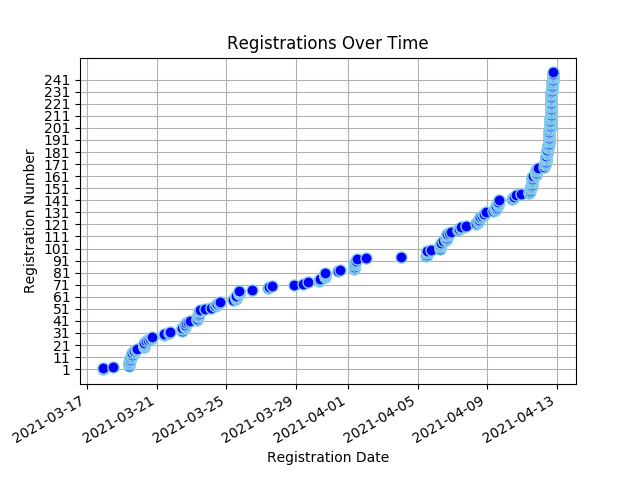
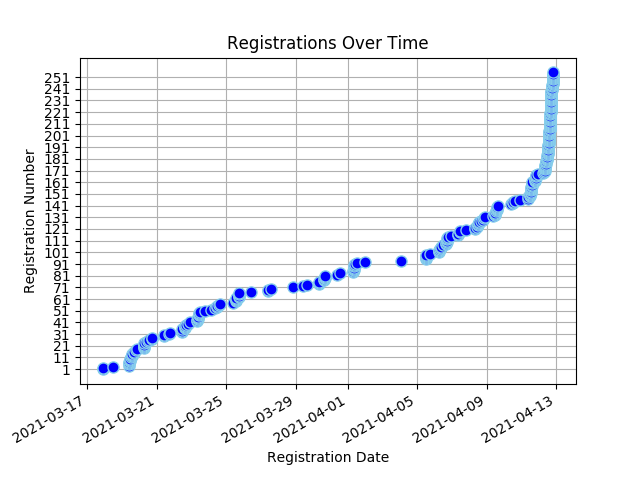
Registree stats backup on Mon 12 Apr 2021 20:35:16 SAST

diff --git a/content/registrees/_index.md b/content/registrees/_index.md
@@ -3,9 +3,9 @@ title: Registration Stats
 draft: false
 ---
 
-<ul><li><strong>Number of Registrees</strong>: 247</li>
+<ul><li><strong>Number of Registrees</strong>: 255</li>
 
-<li><strong>Number of Clubs</strong>: 65</li>
+<li><strong>Number of Clubs</strong>: 66</li>
 
 <li><strong>Club With Most Attendees</strong>: Windhoek (15 registrees)</li>
 </ul><h2>Registrees</h2>
@@ -33,6 +33,6 @@ draft: false
         </tr>
     </thead>
     <tbody>
-<tr><td>Natalie Abrahams</td><td>Cape Town</td><td>410W</td></tr><tr><td>Alan Abramsohn</td><td>Milnerton</td><td>410W</td></tr><tr><td>Janine Abramsohn</td><td>Sea Point</td><td>410W</td></tr><tr><td>Rashid Adams</td><td>Athlone</td><td>410W</td></tr><tr><td>Linda Anderson</td><td>George</td><td>410W</td></tr><tr><td>Neale Stewart ANDREWS</td><td>Cowies Hill</td><td>410E</td></tr><tr><td>Linda Baumgarten</td><td>Sea Point</td><td>410W</td></tr><tr><td>Ulrike Behrens</td><td>Windhoek</td><td>410W</td></tr><tr><td>Valencia Beukes-Williams</td><td>Kuilsriver</td><td>410W</td></tr><tr><td>Belinda Blakeman</td><td>North Durban</td><td>410E</td></tr><tr><td>Lyn(ette) Botha</td><td>Cowies Hill</td><td>410E</td></tr><tr><td>JOSE BRAGA BORGES</td><td>Malmesbury</td><td>410W</td></tr><tr><td>Paul Brauteseth</td><td>Port Shepstone</td><td>410E</td></tr><tr><td>Byron Brooker</td><td>Pretoria South</td><td>410E</td></tr><tr><td>Nelle Buhrmann</td><td>Sea Point</td><td>410W</td></tr><tr><td>Christopher Bull</td><td>The Wilds</td><td>410E</td></tr><tr><td>Herman Cadman</td><td>Stellenbosch</td><td>410W</td></tr><tr><td>Artemis Calomiris</td><td>Helderberg</td><td>410W</td></tr><tr><td>Linda Ann Cannone</td><td>Fish Hoek</td><td>410W</td></tr><tr><td>Petrus Carstens</td><td>Worcester</td><td>410W</td></tr><tr><td>Lizelle Castle</td><td>Athlone</td><td>410W</td></tr><tr><td>Sue Charles</td><td>Tokai</td><td>410W</td></tr><tr><td>Lionel Chazen</td><td>Edenvale</td><td>410E</td></tr><tr><td>Perry Chetty</td><td>East Coast</td><td>410E</td></tr><tr><td>Delaney Yeltsin Cloete</td><td>Eden</td><td>410W</td></tr><tr><td>Kate Coppen</td><td>Letaba Tzaneen</td><td>410E</td></tr><tr><td>Esme Cornelius</td><td>Kuilsriver</td><td>410W</td></tr><tr><td>Sharon Cottle</td><td>Groote Schuur</td><td>410W</td></tr><tr><td>Joel d'Offay</td><td>Milnerton</td><td>410W</td></tr><tr><td>Peter Daniel</td><td>Gordons Bay</td><td>410W</td></tr><tr><td>Norma Daniel</td><td>Gordons Bay</td><td>410W</td></tr><tr><td>Engela de Kock</td><td>Swellendam</td><td>410W</td></tr><tr><td>Francois de Kock</td><td>Swellendam</td><td>410W</td></tr><tr><td>Charlotte de Silva</td><td>Edenvale</td><td>410E</td></tr><tr><td>ANDRE DE VILLIERS</td><td>Malgas</td><td>410W</td></tr><tr><td>Lara De Wet</td><td>Edenvale</td><td>410E</td></tr><tr><td>Benita Diener</td><td>Mitchells Plain</td><td>410W</td></tr><tr><td>Peggy Du Plooy</td><td>Krugersdorp</td><td>410E</td></tr><tr><td>Ivan Du Plooy</td><td>Krugersdorp</td><td>410E</td></tr><tr><td>Tammy du Plooy</td><td>Alberton</td><td>410E</td></tr><tr><td>Marc du Plooy</td><td>Alberton</td><td>410E</td></tr><tr><td>Desiree du Toit</td><td>Ramsgate</td><td>410E</td></tr><tr><td>Glynn Easton</td><td>Helderkruin</td><td>410E</td></tr><tr><td>Denise Easton</td><td>Helderkruin</td><td>410E</td></tr><tr><td>Fadia Ely</td><td>Athlone</td><td>410W</td></tr><tr><td>Freddie Erasmus</td><td>Uitenhage</td><td>410E</td></tr><tr><td>Natalie Etridge</td><td>Sedgefield</td><td>410W</td></tr><tr><td>AIDAN Ewers</td><td>Newlands</td><td>410W</td></tr><tr><td>Roger Fahrbach</td><td>Windhoek</td><td>410W</td></tr><tr><td>Beate Fahrbach</td><td>Windhoek</td><td>410W</td></tr><tr><td>Beate Fahrbach</td><td>Windhoek</td><td>410W</td></tr><tr><td>Jules Flanagan</td><td>Tokai</td><td>410W</td></tr><tr><td>Charles Flanagan</td><td>Tokai</td><td>410W</td></tr><tr><td>Jéan Fouché</td><td>Worcester</td><td>410W</td></tr><tr><td>Clive Fox</td><td>Merriman</td><td>410W</td></tr><tr><td>Pat Fox</td><td>Merriman</td><td>410W</td></tr><tr><td>Kelvin Foxcroft</td><td>Helderkruin</td><td>410E</td></tr><tr><td>Jenny Foxcroft</td><td>Helderkruin</td><td>410E</td></tr><tr><td>Katherine Foxcroft</td><td>Helderkruin</td><td>410E</td></tr><tr><td>Martin Froise</td><td>Letaba Tzaneen</td><td>410E</td></tr><tr><td>Allison Georges</td><td>Cape Of Good Hope</td><td>410W</td></tr><tr><td>Bernd Gerhard</td><td>Wilro Park</td><td>410E</td></tr><tr><td>Shirley Gerhard</td><td>Wilro Park</td><td>410E</td></tr><tr><td>Valerie Graham</td><td>Nelspruit</td><td>410E</td></tr><tr><td>Mike Graham</td><td>Nelspruit</td><td>410E</td></tr><tr><td>Viv Grater</td><td>Sedgefield</td><td>410W</td></tr><tr><td>Brian Gray</td><td>Durbanville</td><td>410W</td></tr><tr><td>Matty Grobler</td><td>Henties Bay</td><td>410W</td></tr><tr><td>Christiana Groenewoud</td><td>Milnerton</td><td>410W</td></tr><tr><td>Mattheus Groves</td><td>Sedgefield</td><td>410W</td></tr><tr><td>Glyn Gunter</td><td>Malmesbury</td><td>410W</td></tr><tr><td>Barbara Haywood</td><td>Eden</td><td>410W</td></tr><tr><td>Mike Heathcote</td><td>Port Shepstone</td><td>410E</td></tr><tr><td>Zarina Hendricks</td><td>Athlone</td><td>410W</td></tr><tr><td>ELIZABETH Hendriks</td><td>Table View</td><td>410W</td></tr><tr><td>MBULELO HERMANUS</td><td>Alberton</td><td>410E</td></tr><tr><td>Evelyn Herzfeld</td><td>Edenvale</td><td>410E</td></tr><tr><td>Dorothy Hess</td><td>Kuilsriver</td><td>410W</td></tr><tr><td>Wendy Higgins</td><td>Wilro Park</td><td>410E</td></tr><tr><td>Jacqui Hocking</td><td>Midrand</td><td>410E</td></tr><tr><td>Cliff Hocking</td><td>Midrand</td><td>410E</td></tr><tr><td>Ellen G W Hoffmann</td><td>Windhoek</td><td>410W</td></tr><tr><td>KEITH ALEXANDER HOLLIMAN</td><td>Alberton</td><td>410E</td></tr><tr><td>Liz Houston</td><td>Table View</td><td>410W</td></tr><tr><td>John Houston</td><td>Table View</td><td>410W</td></tr><tr><td>Johan Huysamen</td><td>Malmesbury</td><td>410W</td></tr><tr><td>Alna Jackson</td><td>Pretoria Jakaranda</td><td>410E</td></tr><tr><td>Dawid Jacobs</td><td>Durbanville</td><td>410W</td></tr><tr><td>Jean Jacobs</td><td>Mitchells Plain</td><td>410W</td></tr><tr><td>WOLSLEY Jacobson</td><td>Cape Town</td><td>410W</td></tr><tr><td>MALCOLM JOHNSTON</td><td>Standerton</td><td>410E</td></tr><tr><td>Grant Jonathan</td><td>Gordons Bay</td><td>410W</td></tr><tr><td>Faezal Karriem</td><td>Worcester</td><td>410W</td></tr><tr><td>Amanda Kemp</td><td>Milnerton</td><td>410W</td></tr><tr><td>Esmeralda Catherine Kennel</td><td>Newlands</td><td>410W</td></tr><tr><td>Jerome Kern</td><td>Groote Schuur</td><td>410W</td></tr><tr><td>Hassan Khan</td><td>Kirstenbosch</td><td>410W</td></tr><tr><td>Margie Kienast</td><td>Edenvale</td><td>410E</td></tr><tr><td>Ian King</td><td>Alberton</td><td>410E</td></tr><tr><td>Sandy King</td><td>Alberton</td><td>410E</td></tr><tr><td>Christa Koekemoer</td><td>Letaba Tzaneen</td><td>410E</td></tr><tr><td>Alton Koenze</td><td>Worcester</td><td>410W</td></tr><tr><td>Muya Koloko</td><td>Durbanville</td><td>410W</td></tr><tr><td>Zwaai Kruger</td><td>Sedgefield</td><td>410W</td></tr><tr><td>Bettina Kröning</td><td>Windhoek</td><td>410W</td></tr><tr><td>Natalie Laas</td><td>Alberton</td><td>410E</td></tr><tr><td>Bevil Lakay</td><td>Mitchells Plain</td><td>410W</td></tr><tr><td>Paula Lang</td><td>Gordons Bay</td><td>410W</td></tr><tr><td>Jimmy Lang</td><td>Gordons Bay</td><td>410W</td></tr><tr><td>Herman Laubscher</td><td>Ceres</td><td>410W</td></tr><tr><td>Steven Lautenbach</td><td>Pretoria South</td><td>410E</td></tr><tr><td>Jeanette le Roux</td><td>Gonubie</td><td>410E</td></tr><tr><td>Heather Lee</td><td>Cape Of Good Hope</td><td>410W</td></tr><tr><td>Erika Louw</td><td>Durbanville</td><td>410W</td></tr><tr><td>Dee Love</td><td>Cowies Hill</td><td>410E</td></tr><tr><td>Rashmiya Lucas</td><td>Mitchells Plain</td><td>410W</td></tr><tr><td>Zarina Luck</td><td>Newcastle</td><td>410E</td></tr><tr><td>Pam MacRobert</td><td>Groote Schuur</td><td>410W</td></tr><tr><td>Sharon Mangwende</td><td>Cape Town</td><td>410W</td></tr><tr><td>Richard MARCHANT</td><td>The Wilds</td><td>410E</td></tr><tr><td>Beaulieu Mare</td><td>Benoni Lakes</td><td>410E</td></tr><tr><td>Nick Maré</td><td>Benoni Lakes</td><td>410E</td></tr><tr><td>Jean Masson</td><td>Port Shepstone</td><td>410E</td></tr><tr><td>LANCE MAYTHAM</td><td>Swellendam</td><td>410W</td></tr><tr><td>ROSEMARIE MAYTHAM</td><td>Swellendam</td><td>410W</td></tr><tr><td>David Mccullough</td><td>Pretoria South</td><td>410E</td></tr><tr><td>Rochelle McDonald</td><td>Vereeniging</td><td>410E</td></tr><tr><td>Alec McKerrow</td><td>Port Alfred</td><td>410E</td></tr><tr><td>Stuart McPherson</td><td>Newlands</td><td>410W</td></tr><tr><td>Mark Meltzer</td><td>The Wilds</td><td>410E</td></tr><tr><td>Elisa Metz</td><td>Milnerton</td><td>410W</td></tr><tr><td>Denis Meyer</td><td>Port Shepstone</td><td>410E</td></tr><tr><td>Roy Michas</td><td>Midrand</td><td>410E</td></tr><tr><td>Dawn Michas</td><td>Midrand</td><td>410E</td></tr><tr><td>BERNICE MILLS</td><td>Centurion</td><td>410E</td></tr><tr><td>Patrick Mills</td><td>Centurion</td><td>410E</td></tr><tr><td>Cherie Milosevich</td><td>Milnerton</td><td>410W</td></tr><tr><td>Alana Mitchell</td><td>Rustenburg</td><td>410E</td></tr><tr><td>Juan Mitchell</td><td>Rustenburg</td><td>410E</td></tr><tr><td>Virginia Mkhize</td><td>Cape Town</td><td>410W</td></tr><tr><td>Frauke E. Moeller</td><td>Windhoek</td><td>410W</td></tr><tr><td>Bernadine Moses</td><td>Cape Town</td><td>410W</td></tr><tr><td>Jacques Mostert</td><td>Merriman</td><td>410W</td></tr><tr><td>Suzanne Murray</td><td>Vereeniging</td><td>410E</td></tr><tr><td>Gary Murray</td><td>Vereeniging</td><td>410E</td></tr><tr><td>Pieter Myburg</td><td>Wellington</td><td>410W</td></tr><tr><td>Cornette Naude</td><td>Letaba Tzaneen</td><td>410E</td></tr><tr><td>Pieter Nel</td><td>George</td><td>410W</td></tr><tr><td>Tillie Nel</td><td>Eden</td><td>410W</td></tr><tr><td>Theo Nel</td><td>Pretoria South</td><td>410E</td></tr><tr><td>Mike Newlands</td><td>Port Alfred</td><td>410E</td></tr><tr><td>Angela Niehaus</td><td>Bergvliet</td><td>410W</td></tr><tr><td>Rachel Nortjie</td><td>Mitchells Plain</td><td>410W</td></tr><tr><td>PDG Bokkie Oberholzer</td><td>Uitenhage</td><td>410E</td></tr><tr><td>Chris Ocker</td><td>Fish Hoek</td><td>410W</td></tr><tr><td>Jenny Ocker</td><td>Fish Hoek</td><td>410W</td></tr><tr><td>Debra Olivier</td><td>Sedgefield</td><td>410W</td></tr><tr><td>Isabella Stratton Ormandy</td><td>Milnerton</td><td>410W</td></tr><tr><td>Teresa Pantoleon</td><td>Vereeniging</td><td>410E</td></tr><tr><td>Maureen Peters</td><td>Ceres</td><td>410W</td></tr><tr><td>Sundru Pillay</td><td>Durbanville</td><td>410W</td></tr><tr><td>Patrick Pillay</td><td>Tygerberg Hills</td><td>410W</td></tr><tr><td>Tracey Polkinghorne</td><td>Kensington</td><td>410E</td></tr><tr><td>Gavin Polkinghorne</td><td>Kensington</td><td>410E</td></tr><tr><td>BRIAN PORTEOUS</td><td>Hibberdene</td><td>410E</td></tr><tr><td>Mary-Anne Ras</td><td>Swellendam</td><td>410W</td></tr><tr><td>Leon Jacobus Ras</td><td>Swellendam</td><td>410E</td></tr><tr><td>Hugo Reniers</td><td>Nelspruit</td><td>410E</td></tr><tr><td>Sandy Roman</td><td>Bergvliet</td><td>410W</td></tr><tr><td>Mark Rossouw</td><td>Tokai</td><td>410W</td></tr><tr><td>Andrea Rothner</td><td>Eden</td><td>410W</td></tr><tr><td>Anthonie Petrus Roux</td><td>Moorreesburg</td><td>410W</td></tr><tr><td>Ingrid Russell</td><td>Fish Hoek</td><td>410W</td></tr><tr><td>Rodney Sabatier</td><td>Letaba Tzaneen</td><td>410E</td></tr><tr><td>Sharon Sampie</td><td>Bergvliet</td><td>410W</td></tr><tr><td>Vera Schatz</td><td>Windhoek</td><td>410W</td></tr><tr><td>Frank Schatz</td><td>Windhoek</td><td>410W</td></tr><tr><td>Francis Searle</td><td>Kouga</td><td>410E</td></tr><tr><td>Gloria Searle</td><td>Kouga</td><td>410E</td></tr><tr><td>Ami Sell</td><td>Windhoek</td><td>410W</td></tr><tr><td>Beryl Simpson</td><td>Cape Town</td><td>410W</td></tr><tr><td>Kenlis Sircoulomb</td><td>Windhoek</td><td>410W</td></tr><tr><td>Holger Sircoulomb</td><td>Windhoek</td><td>410W</td></tr><tr><td>Hennie Smeer</td><td>Windhoek</td><td>410W</td></tr><tr><td>Sue Smit</td><td>Centurion</td><td>410E</td></tr><tr><td>Herman Smit</td><td>Swellendam</td><td>410W</td></tr><tr><td>Santie Smit</td><td>Durbanville</td><td>410W</td></tr><tr><td>Jeff Smith</td><td>Port Shepstone</td><td>410E</td></tr><tr><td>Bennie Smith</td><td>Wellington</td><td>410W</td></tr><tr><td>Carmen Dolores Smith</td><td>Tokai</td><td>410W</td></tr><tr><td>David John Smith</td><td>Tokai</td><td>410W</td></tr><tr><td>LYN SNYMAN</td><td>Deep South</td><td>410W</td></tr><tr><td>Diana Sochen</td><td>Sea Point</td><td>410W</td></tr><tr><td>Max Stander</td><td>Port Alfred</td><td>410E</td></tr><tr><td>Ashley Stander</td><td>Krugersdorp</td><td>410E</td></tr><tr><td>Brett Jason Stander</td><td>Krugersdorp</td><td>410E</td></tr><tr><td>TIM STEENBERG</td><td>Wellington</td><td>410W</td></tr><tr><td>RORY stier</td><td>Deep South</td><td>410W</td></tr><tr><td>Patrick Strauss</td><td>Kuilsriver</td><td>410W</td></tr><tr><td>Lauryn Talbot</td><td>Benoni Lakes</td><td>410E</td></tr><tr><td>Margaret Thackwell</td><td>Table View</td><td>410W</td></tr><tr><td>Pierre Theron</td><td>Midrand</td><td>410E</td></tr><tr><td>Moira Theron</td><td>Midrand</td><td>410E</td></tr><tr><td>Diane Townsend</td><td>Benoni Lakes</td><td>410E</td></tr><tr><td>David Alex Tshikala</td><td>Athlone</td><td>410W</td></tr><tr><td>Alistair Tuckett</td><td>Roodepoort Clearwater Cyber</td><td>410E</td></tr><tr><td>Rowan Tuckett</td><td>Roodepoort Clearwater Cyber</td><td>410E</td></tr><tr><td>Gail Tuckett</td><td>Roodepoort Clearwater Cyber</td><td>410E</td></tr><tr><td>Jiri Uchytil</td><td>Alberton</td><td>410E</td></tr><tr><td>Tracy Valadao</td><td>Midrand</td><td>410E</td></tr><tr><td>Carl van Blerk</td><td>Eden</td><td>410W</td></tr><tr><td>HILARY LISE VAN BREDA</td><td>Cape Town</td><td>410W</td></tr><tr><td>Marina Van de Merwe</td><td>Malmesbury</td><td>410W</td></tr><tr><td>Ingrid van der Merwe</td><td>Letaba Tzaneen</td><td>410E</td></tr><tr><td>PATRICIA VAN DER MERWE</td><td>East London Port Rex</td><td>410E</td></tr><tr><td>MARINA VAN DER MERWE</td><td>Malmesbury</td><td>410W</td></tr><tr><td>Hennie van der Westhuizen</td><td>Helderberg</td><td>410W</td></tr><tr><td>Sydney van Heerden</td><td>Wilro Park</td><td>410E</td></tr><tr><td>Sandy van Heerden</td><td>Wilro Park</td><td>410E</td></tr><tr><td>Craig van Heerden</td><td>East London Beacon Bay</td><td>410E</td></tr><tr><td>Mark van Heerden</td><td>Pretoria South</td><td>410E</td></tr><tr><td>Neville Van Rensburg</td><td>Moorreesburg</td><td>410W</td></tr><tr><td>Johan van Rensburg</td><td>Windhoek</td><td>410W</td></tr><tr><td>Anne van Rensburg</td><td>Windhoek</td><td>410W</td></tr><tr><td>Jeannie van Wulven</td><td>Tygerberg Hills</td><td>410W</td></tr><tr><td>Alan van Wulven</td><td>Tygerberg Hills</td><td>410W</td></tr><tr><td>Deon van Wulven</td><td>Tygerberg Hills</td><td>410W</td></tr><tr><td>Kim van Wyk</td><td>North Durban</td><td>410E</td></tr><tr><td>Lindie van Wyk</td><td>Pretoria Jakaranda</td><td>410E</td></tr><tr><td>Willem van Wyk</td><td>Midrand</td><td>410E</td></tr><tr><td>Patricia van Wyk</td><td>Pretoria Jakaranda</td><td>410E</td></tr><tr><td>Edith Van Wyk-Nelson</td><td>Kuilsriver</td><td>410W</td></tr><tr><td>Louis Venter</td><td>Letaba Tzaneen</td><td>410E</td></tr><tr><td>Russell Volker</td><td>King William's Town</td><td>410E</td></tr><tr><td>Brian von der Decken</td><td>King William's Town</td><td>410E</td></tr><tr><td>Rinette Von Mollendorf</td><td>Durbanville</td><td>410W</td></tr><tr><td>Rochelle Vorster</td><td>Sedgefield</td><td>410W</td></tr><tr><td>Alastair Warman</td><td>Port Shepstone</td><td>410E</td></tr><tr><td>Allan Watson</td><td>Sea Point</td><td>410W</td></tr><tr><td>Alison Watson</td><td>Sedgefield</td><td>410W</td></tr><tr><td>Johanna Williams</td><td>Mitchells Plain</td><td>410W</td></tr><tr><td>Neville Williamson</td><td>Port Alfred</td><td>410E</td></tr><tr><td>Geila Wills</td><td>Athlone</td><td>410W</td></tr><tr><td>Joan Woodman</td><td>Mitchells Plain</td><td>410W</td></tr><tr><td>Rocky Wright</td><td>Table View</td><td>410W</td></tr><tr><td>Judy Young</td><td>Durbanville</td><td>410W</td></tr><tr><td>Leonie Zucker</td><td>Milnerton</td><td>410W</td></tr>
+<tr><td>Natalie Abrahams</td><td>Cape Town</td><td>410W</td></tr><tr><td>Alan Abramsohn</td><td>Milnerton</td><td>410W</td></tr><tr><td>Janine Abramsohn</td><td>Sea Point</td><td>410W</td></tr><tr><td>Rashid Adams</td><td>Athlone</td><td>410W</td></tr><tr><td>Linda Anderson</td><td>George</td><td>410W</td></tr><tr><td>Neale Stewart ANDREWS</td><td>Cowies Hill</td><td>410E</td></tr><tr><td>Linda Baumgarten</td><td>Sea Point</td><td>410W</td></tr><tr><td>Ulrike Behrens</td><td>Windhoek</td><td>410W</td></tr><tr><td>Valencia Beukes-Williams</td><td>Kuilsriver</td><td>410W</td></tr><tr><td>Belinda Blakeman</td><td>North Durban</td><td>410E</td></tr><tr><td>Lyn(ette) Botha</td><td>Cowies Hill</td><td>410E</td></tr><tr><td>JOSE BRAGA BORGES</td><td>Malmesbury</td><td>410W</td></tr><tr><td>Paul Brauteseth</td><td>Port Shepstone</td><td>410E</td></tr><tr><td>Byron Brooker</td><td>Pretoria South</td><td>410E</td></tr><tr><td>Nelle Buhrmann</td><td>Sea Point</td><td>410W</td></tr><tr><td>Christopher Bull</td><td>The Wilds</td><td>410E</td></tr><tr><td>Herman Cadman</td><td>Stellenbosch</td><td>410W</td></tr><tr><td>Artemis Calomiris</td><td>Helderberg</td><td>410W</td></tr><tr><td>Linda Ann Cannone</td><td>Fish Hoek</td><td>410W</td></tr><tr><td>Petrus Carstens</td><td>Worcester</td><td>410W</td></tr><tr><td>Lizelle Castle</td><td>Athlone</td><td>410W</td></tr><tr><td>Sue Charles</td><td>Tokai</td><td>410W</td></tr><tr><td>Lionel Chazen</td><td>Edenvale</td><td>410E</td></tr><tr><td>Perry Chetty</td><td>East Coast</td><td>410E</td></tr><tr><td>Tanyaradzwa Chinyai</td><td>Groote Schuur</td><td>410W</td></tr><tr><td>Delaney Yeltsin Cloete</td><td>Eden</td><td>410W</td></tr><tr><td>Kate Coppen</td><td>Letaba Tzaneen</td><td>410E</td></tr><tr><td>Esme Cornelius</td><td>Kuilsriver</td><td>410W</td></tr><tr><td>Sharon Cottle</td><td>Groote Schuur</td><td>410W</td></tr><tr><td>Joel d'Offay</td><td>Milnerton</td><td>410W</td></tr><tr><td>Peter Daniel</td><td>Gordons Bay</td><td>410W</td></tr><tr><td>Norma Daniel</td><td>Gordons Bay</td><td>410W</td></tr><tr><td>Engela de Kock</td><td>Swellendam</td><td>410W</td></tr><tr><td>Francois de Kock</td><td>Swellendam</td><td>410W</td></tr><tr><td>Charlotte de Silva</td><td>Edenvale</td><td>410E</td></tr><tr><td>ANDRE DE VILLIERS</td><td>Malgas</td><td>410W</td></tr><tr><td>Lara De Wet</td><td>Edenvale</td><td>410E</td></tr><tr><td>Benita Diener</td><td>Mitchells Plain</td><td>410W</td></tr><tr><td>Peggy Du Plooy</td><td>Krugersdorp</td><td>410E</td></tr><tr><td>Ivan Du Plooy</td><td>Krugersdorp</td><td>410E</td></tr><tr><td>Tammy du Plooy</td><td>Alberton</td><td>410E</td></tr><tr><td>Marc du Plooy</td><td>Alberton</td><td>410E</td></tr><tr><td>Desiree du Toit</td><td>Ramsgate</td><td>410E</td></tr><tr><td>Hanè Dunn</td><td>Swellendam</td><td>410W</td></tr><tr><td>Glynn Easton</td><td>Helderkruin</td><td>410E</td></tr><tr><td>Denise Easton</td><td>Helderkruin</td><td>410E</td></tr><tr><td>Fadia Ely</td><td>Athlone</td><td>410W</td></tr><tr><td>Freddie Erasmus</td><td>Uitenhage</td><td>410E</td></tr><tr><td>Natalie Etridge</td><td>Sedgefield</td><td>410W</td></tr><tr><td>AIDAN Ewers</td><td>Newlands</td><td>410W</td></tr><tr><td>Roger Fahrbach</td><td>Windhoek</td><td>410W</td></tr><tr><td>Beate Fahrbach</td><td>Windhoek</td><td>410W</td></tr><tr><td>Beate Fahrbach</td><td>Windhoek</td><td>410W</td></tr><tr><td>Jules Flanagan</td><td>Tokai</td><td>410W</td></tr><tr><td>Charles Flanagan</td><td>Tokai</td><td>410W</td></tr><tr><td>Jéan Fouché</td><td>Worcester</td><td>410W</td></tr><tr><td>Clive Fox</td><td>Merriman</td><td>410W</td></tr><tr><td>Pat Fox</td><td>Merriman</td><td>410W</td></tr><tr><td>Kelvin Foxcroft</td><td>Helderkruin</td><td>410E</td></tr><tr><td>Jenny Foxcroft</td><td>Helderkruin</td><td>410E</td></tr><tr><td>Katherine Foxcroft</td><td>Helderkruin</td><td>410E</td></tr><tr><td>Martin Froise</td><td>Letaba Tzaneen</td><td>410E</td></tr><tr><td>Allison Georges</td><td>Cape Of Good Hope</td><td>410W</td></tr><tr><td>Bernd Gerhard</td><td>Wilro Park</td><td>410E</td></tr><tr><td>Shirley Gerhard</td><td>Wilro Park</td><td>410E</td></tr><tr><td>Valerie Graham</td><td>Nelspruit</td><td>410E</td></tr><tr><td>Mike Graham</td><td>Nelspruit</td><td>410E</td></tr><tr><td>Viv Grater</td><td>Sedgefield</td><td>410W</td></tr><tr><td>Brian Gray</td><td>Durbanville</td><td>410W</td></tr><tr><td>David Griffith</td><td>The Wilds</td><td>410E</td></tr><tr><td>Matty Grobler</td><td>Henties Bay</td><td>410W</td></tr><tr><td>Christiana Groenewoud</td><td>Milnerton</td><td>410W</td></tr><tr><td>Mattheus Groves</td><td>Sedgefield</td><td>410W</td></tr><tr><td>Glyn Gunter</td><td>Malmesbury</td><td>410W</td></tr><tr><td>Barbara Haywood</td><td>Eden</td><td>410W</td></tr><tr><td>Mike Heathcote</td><td>Port Shepstone</td><td>410E</td></tr><tr><td>Zarina Hendricks</td><td>Athlone</td><td>410W</td></tr><tr><td>ELIZABETH Hendriks</td><td>Table View</td><td>410W</td></tr><tr><td>MBULELO HERMANUS</td><td>Alberton</td><td>410E</td></tr><tr><td>Evelyn Herzfeld</td><td>Edenvale</td><td>410E</td></tr><tr><td>Dorothy Hess</td><td>Kuilsriver</td><td>410W</td></tr><tr><td>Wendy Higgins</td><td>Wilro Park</td><td>410E</td></tr><tr><td>Jacqui Hocking</td><td>Midrand</td><td>410E</td></tr><tr><td>Cliff Hocking</td><td>Midrand</td><td>410E</td></tr><tr><td>Ellen G W Hoffmann</td><td>Windhoek</td><td>410W</td></tr><tr><td>KEITH ALEXANDER HOLLIMAN</td><td>Alberton</td><td>410E</td></tr><tr><td>Liz Houston</td><td>Table View</td><td>410W</td></tr><tr><td>John Houston</td><td>Table View</td><td>410W</td></tr><tr><td>Johan Huysamen</td><td>Malmesbury</td><td>410W</td></tr><tr><td>Alna Jackson</td><td>Pretoria Jakaranda</td><td>410E</td></tr><tr><td>Dawid Jacobs</td><td>Durbanville</td><td>410W</td></tr><tr><td>Jean Jacobs</td><td>Mitchells Plain</td><td>410W</td></tr><tr><td>WOLSLEY Jacobson</td><td>Cape Town</td><td>410W</td></tr><tr><td>MALCOLM JOHNSTON</td><td>Standerton</td><td>410E</td></tr><tr><td>Grant Jonathan</td><td>Gordons Bay</td><td>410W</td></tr><tr><td>Faezal Karriem</td><td>Worcester</td><td>410W</td></tr><tr><td>Amanda Kemp</td><td>Milnerton</td><td>410W</td></tr><tr><td>Esmeralda Catherine Kennel</td><td>Newlands</td><td>410W</td></tr><tr><td>Jerome Kern</td><td>Groote Schuur</td><td>410W</td></tr><tr><td>Hassan Khan</td><td>Kirstenbosch</td><td>410W</td></tr><tr><td>Margie Kienast</td><td>Edenvale</td><td>410E</td></tr><tr><td>Ian King</td><td>Alberton</td><td>410E</td></tr><tr><td>Sandy King</td><td>Alberton</td><td>410E</td></tr><tr><td>Christa Koekemoer</td><td>Letaba Tzaneen</td><td>410E</td></tr><tr><td>Alton Koenze</td><td>Worcester</td><td>410W</td></tr><tr><td>Muya Koloko</td><td>Durbanville</td><td>410W</td></tr><tr><td>Zwaai Kruger</td><td>Sedgefield</td><td>410W</td></tr><tr><td>Pieter Kruger</td><td>Wilro Park</td><td>410E</td></tr><tr><td>Bettina Kröning</td><td>Windhoek</td><td>410W</td></tr><tr><td>Natalie Laas</td><td>Alberton</td><td>410E</td></tr><tr><td>Susan Labuschagne</td><td>Wilro Park</td><td>410E</td></tr><tr><td>Bevil Lakay</td><td>Mitchells Plain</td><td>410W</td></tr><tr><td>Paula Lang</td><td>Gordons Bay</td><td>410W</td></tr><tr><td>Jimmy Lang</td><td>Gordons Bay</td><td>410W</td></tr><tr><td>Herman Laubscher</td><td>Ceres</td><td>410W</td></tr><tr><td>Steven Lautenbach</td><td>Pretoria South</td><td>410E</td></tr><tr><td>Jeanette le Roux</td><td>Gonubie</td><td>410E</td></tr><tr><td>Heather Lee</td><td>Cape Of Good Hope</td><td>410W</td></tr><tr><td>Erika Louw</td><td>Durbanville</td><td>410W</td></tr><tr><td>Dee Love</td><td>Cowies Hill</td><td>410E</td></tr><tr><td>Rashmiya Lucas</td><td>Mitchells Plain</td><td>410W</td></tr><tr><td>Zarina Luck</td><td>Newcastle</td><td>410E</td></tr><tr><td>Pam MacRobert</td><td>Groote Schuur</td><td>410W</td></tr><tr><td>Sharon Mangwende</td><td>Cape Town</td><td>410W</td></tr><tr><td>Richard MARCHANT</td><td>The Wilds</td><td>410E</td></tr><tr><td>Beaulieu Mare</td><td>Benoni Lakes</td><td>410E</td></tr><tr><td>Nick Maré</td><td>Benoni Lakes</td><td>410E</td></tr><tr><td>Jean Masson</td><td>Port Shepstone</td><td>410E</td></tr><tr><td>LANCE MAYTHAM</td><td>Swellendam</td><td>410W</td></tr><tr><td>ROSEMARIE MAYTHAM</td><td>Swellendam</td><td>410W</td></tr><tr><td>David Mccullough</td><td>Pretoria South</td><td>410E</td></tr><tr><td>Rochelle McDonald</td><td>Vereeniging</td><td>410E</td></tr><tr><td>Alec McKerrow</td><td>Port Alfred</td><td>410E</td></tr><tr><td>Stuart McPherson</td><td>Newlands</td><td>410W</td></tr><tr><td>Mark Meltzer</td><td>The Wilds</td><td>410E</td></tr><tr><td>Elisa Metz</td><td>Milnerton</td><td>410W</td></tr><tr><td>Denis Meyer</td><td>Port Shepstone</td><td>410E</td></tr><tr><td>Roy Michas</td><td>Midrand</td><td>410E</td></tr><tr><td>Dawn Michas</td><td>Midrand</td><td>410E</td></tr><tr><td>BERNICE MILLS</td><td>Centurion</td><td>410E</td></tr><tr><td>Patrick Mills</td><td>Centurion</td><td>410E</td></tr><tr><td>Cherie Milosevich</td><td>Milnerton</td><td>410W</td></tr><tr><td>Alana Mitchell</td><td>Rustenburg</td><td>410E</td></tr><tr><td>Juan Mitchell</td><td>Rustenburg</td><td>410E</td></tr><tr><td>Virginia Mkhize</td><td>Cape Town</td><td>410W</td></tr><tr><td>Frauke E. Moeller</td><td>Windhoek</td><td>410W</td></tr><tr><td>Bernadine Moses</td><td>Cape Town</td><td>410W</td></tr><tr><td>Jacques Mostert</td><td>Merriman</td><td>410W</td></tr><tr><td>Suzanne Murray</td><td>Vereeniging</td><td>410E</td></tr><tr><td>Gary Murray</td><td>Vereeniging</td><td>410E</td></tr><tr><td>Peter Mutschler</td><td>Grootfontein</td><td>410W</td></tr><tr><td>Pieter Myburg</td><td>Wellington</td><td>410W</td></tr><tr><td>Cornette Naude</td><td>Letaba Tzaneen</td><td>410E</td></tr><tr><td>Pieter Nel</td><td>George</td><td>410W</td></tr><tr><td>Tillie Nel</td><td>Eden</td><td>410W</td></tr><tr><td>Theo Nel</td><td>Pretoria South</td><td>410E</td></tr><tr><td>Mike Newlands</td><td>Port Alfred</td><td>410E</td></tr><tr><td>Angela Niehaus</td><td>Bergvliet</td><td>410W</td></tr><tr><td>Rachel Nortjie</td><td>Mitchells Plain</td><td>410W</td></tr><tr><td>PDG Bokkie Oberholzer</td><td>Uitenhage</td><td>410E</td></tr><tr><td>Chris Ocker</td><td>Fish Hoek</td><td>410W</td></tr><tr><td>Jenny Ocker</td><td>Fish Hoek</td><td>410W</td></tr><tr><td>Debra Olivier</td><td>Sedgefield</td><td>410W</td></tr><tr><td>Isabella Stratton Ormandy</td><td>Milnerton</td><td>410W</td></tr><tr><td>Teresa Pantoleon</td><td>Vereeniging</td><td>410E</td></tr><tr><td>Maureen Peters</td><td>Ceres</td><td>410W</td></tr><tr><td>Sundru Pillay</td><td>Durbanville</td><td>410W</td></tr><tr><td>Patrick Pillay</td><td>Tygerberg Hills</td><td>410W</td></tr><tr><td>Tracey Polkinghorne</td><td>Kensington</td><td>410E</td></tr><tr><td>Gavin Polkinghorne</td><td>Kensington</td><td>410E</td></tr><tr><td>BRIAN PORTEOUS</td><td>Hibberdene</td><td>410E</td></tr><tr><td>Mary-Anne Ras</td><td>Swellendam</td><td>410W</td></tr><tr><td>Leon Jacobus Ras</td><td>Swellendam</td><td>410E</td></tr><tr><td>Hugo Reniers</td><td>Nelspruit</td><td>410E</td></tr><tr><td>Sandy Roman</td><td>Bergvliet</td><td>410W</td></tr><tr><td>Mark Rossouw</td><td>Tokai</td><td>410W</td></tr><tr><td>Andrea Rothner</td><td>Eden</td><td>410W</td></tr><tr><td>Anthonie Petrus Roux</td><td>Moorreesburg</td><td>410W</td></tr><tr><td>Ingrid Russell</td><td>Fish Hoek</td><td>410W</td></tr><tr><td>Rodney Sabatier</td><td>Letaba Tzaneen</td><td>410E</td></tr><tr><td>Sharon Sampie</td><td>Bergvliet</td><td>410W</td></tr><tr><td>Vera Schatz</td><td>Windhoek</td><td>410W</td></tr><tr><td>Frank Schatz</td><td>Windhoek</td><td>410W</td></tr><tr><td>Francis Searle</td><td>Kouga</td><td>410E</td></tr><tr><td>Gloria Searle</td><td>Kouga</td><td>410E</td></tr><tr><td>Ami Sell</td><td>Windhoek</td><td>410W</td></tr><tr><td>Beryl Simpson</td><td>Cape Town</td><td>410W</td></tr><tr><td>Kenlis Sircoulomb</td><td>Windhoek</td><td>410W</td></tr><tr><td>Holger Sircoulomb</td><td>Windhoek</td><td>410W</td></tr><tr><td>Hennie Smeer</td><td>Windhoek</td><td>410W</td></tr><tr><td>Sue Smit</td><td>Centurion</td><td>410E</td></tr><tr><td>Herman Smit</td><td>Swellendam</td><td>410W</td></tr><tr><td>Santie Smit</td><td>Durbanville</td><td>410W</td></tr><tr><td>Jeff Smith</td><td>Port Shepstone</td><td>410E</td></tr><tr><td>Bennie Smith</td><td>Wellington</td><td>410W</td></tr><tr><td>Carmen Dolores Smith</td><td>Tokai</td><td>410W</td></tr><tr><td>David John Smith</td><td>Tokai</td><td>410W</td></tr><tr><td>LYN SNYMAN</td><td>Deep South</td><td>410W</td></tr><tr><td>Diana Sochen</td><td>Sea Point</td><td>410W</td></tr><tr><td>Max Stander</td><td>Port Alfred</td><td>410E</td></tr><tr><td>Ashley Stander</td><td>Krugersdorp</td><td>410E</td></tr><tr><td>Brett Jason Stander</td><td>Krugersdorp</td><td>410E</td></tr><tr><td>TIM STEENBERG</td><td>Wellington</td><td>410W</td></tr><tr><td>RORY stier</td><td>Deep South</td><td>410W</td></tr><tr><td>Patrick Strauss</td><td>Kuilsriver</td><td>410W</td></tr><tr><td>Lauryn Talbot</td><td>Benoni Lakes</td><td>410E</td></tr><tr><td>Margaret Thackwell</td><td>Table View</td><td>410W</td></tr><tr><td>Pierre Theron</td><td>Midrand</td><td>410E</td></tr><tr><td>Moira Theron</td><td>Midrand</td><td>410E</td></tr><tr><td>Diane Townsend</td><td>Benoni Lakes</td><td>410E</td></tr><tr><td>David Alex Tshikala</td><td>Athlone</td><td>410W</td></tr><tr><td>Alistair Tuckett</td><td>Roodepoort Clearwater Cyber</td><td>410E</td></tr><tr><td>Rowan Tuckett</td><td>Roodepoort Clearwater Cyber</td><td>410E</td></tr><tr><td>Gail Tuckett</td><td>Roodepoort Clearwater Cyber</td><td>410E</td></tr><tr><td>Jiri Uchytil</td><td>Alberton</td><td>410E</td></tr><tr><td>Tracy Valadao</td><td>Midrand</td><td>410E</td></tr><tr><td>Carl van Blerk</td><td>Eden</td><td>410W</td></tr><tr><td>HILARY LISE VAN BREDA</td><td>Cape Town</td><td>410W</td></tr><tr><td>Marina Van de Merwe</td><td>Malmesbury</td><td>410W</td></tr><tr><td>Ingrid van der Merwe</td><td>Letaba Tzaneen</td><td>410E</td></tr><tr><td>PATRICIA VAN DER MERWE</td><td>East London Port Rex</td><td>410E</td></tr><tr><td>MARINA VAN DER MERWE</td><td>Malmesbury</td><td>410W</td></tr><tr><td>Hennie van der Westhuizen</td><td>Helderberg</td><td>410W</td></tr><tr><td>Sydney van Heerden</td><td>Wilro Park</td><td>410E</td></tr><tr><td>Sandy van Heerden</td><td>Wilro Park</td><td>410E</td></tr><tr><td>Craig van Heerden</td><td>East London Beacon Bay</td><td>410E</td></tr><tr><td>Mark van Heerden</td><td>Pretoria South</td><td>410E</td></tr><tr><td>Neville Van Rensburg</td><td>Moorreesburg</td><td>410W</td></tr><tr><td>Johan van Rensburg</td><td>Windhoek</td><td>410W</td></tr><tr><td>Anne van Rensburg</td><td>Windhoek</td><td>410W</td></tr><tr><td>Jeannie van Wulven</td><td>Tygerberg Hills</td><td>410W</td></tr><tr><td>Alan van Wulven</td><td>Tygerberg Hills</td><td>410W</td></tr><tr><td>Deon van Wulven</td><td>Tygerberg Hills</td><td>410W</td></tr><tr><td>Kim van Wyk</td><td>North Durban</td><td>410E</td></tr><tr><td>Lindie van Wyk</td><td>Pretoria Jakaranda</td><td>410E</td></tr><tr><td>Willem van Wyk</td><td>Midrand</td><td>410E</td></tr><tr><td>Patricia van Wyk</td><td>Pretoria Jakaranda</td><td>410E</td></tr><tr><td>Edith Van Wyk-Nelson</td><td>Kuilsriver</td><td>410W</td></tr><tr><td>Louis Venter</td><td>Letaba Tzaneen</td><td>410E</td></tr><tr><td>Russell Volker</td><td>King William's Town</td><td>410E</td></tr><tr><td>Brian von der Decken</td><td>King William's Town</td><td>410E</td></tr><tr><td>Rinette Von Mollendorf</td><td>Durbanville</td><td>410W</td></tr><tr><td>Rochelle Vorster</td><td>Sedgefield</td><td>410W</td></tr><tr><td>Alastair Warman</td><td>Port Shepstone</td><td>410E</td></tr><tr><td>Allan Watson</td><td>Sea Point</td><td>410W</td></tr><tr><td>Alison Watson</td><td>Sedgefield</td><td>410W</td></tr><tr><td>Johanna Williams</td><td>Mitchells Plain</td><td>410W</td></tr><tr><td>Neville Williamson</td><td>Port Alfred</td><td>410E</td></tr><tr><td>Geila Wills</td><td>Athlone</td><td>410W</td></tr><tr><td>Joan Woodman</td><td>Mitchells Plain</td><td>410W</td></tr><tr><td>Rocky Wright</td><td>Table View</td><td>410W</td></tr><tr><td>Judy Young</td><td>Durbanville</td><td>410W</td></tr><tr><td>Gerry Young</td><td>Mitchells Plain</td><td>410W</td></tr><tr><td>Leonie Zucker</td><td>Milnerton</td><td>410W</td></tr><tr><td>Leonie Zucker</td><td>Milnerton</td><td>410E</td></tr>
 </tbody>
 </table>

diff --git a/content/full_stats/_index.md b/content/full_stats/_index.md
@@ -17,17 +17,17 @@ draft: false
 <body>
 <h1 style="color: #000000;">Full Registration Stats</h1>
 <a href="/docs/registrees_list.xlsx">Download Registrees Excel File</a>
-<ul><li><strong>Number of Registrees</strong>: 247</li>
-<li><strong>Number of Clubs</strong>: 65</li>
+<ul><li><strong>Number of Registrees</strong>: 255</li>
+<li><strong>Number of Clubs</strong>: 66</li>
 <li><strong>Club With Most Attendees</strong>: Windhoek (15 registrees)</li>
 
-<li><strong>Number of District 410W Convention Attendees</strong>: 132</li>
-<li><strong>Number of District 410W Convention Voters</strong>: 62</li>
-<li><strong>Number of District 410E Convention Attendees</strong>: 98</li>
-<li><strong>Number of District 410E Convention Voters</strong>: 54</li>
+<li><strong>Number of District 410W Convention Attendees</strong>: 136</li>
+<li><strong>Number of District 410W Convention Voters</strong>: 63</li>
+<li><strong>Number of District 410E Convention Attendees</strong>: 102</li>
+<li><strong>Number of District 410E Convention Voters</strong>: 56</li>
 
-<li><strong>Number of MD410 Convention Attendees</strong>: 202</li>
-<li><strong>Number of MD410 Convention Voters</strong>: 101</li>
+<li><strong>Number of MD410 Convention Attendees</strong>: 204</li>
+<li><strong>Number of MD410 Convention Voters</strong>: 102</li>
 
 </ul>
 <h2>Registrees</h2>
@@ -326,6 +326,17 @@ draft: false
 </tr>
 
     
+<td>279</td>
+<td>Tanyaradzwa Chinyai</td>
+<td>Groote Schuur</td>
+<td>410W</td>
+<td>No</td>
+<td style="background-color: lightgreen">Yes</td>
+<td style="background-color: lightgreen">Yes</td>
+<td style="background-color: lightgreen">Yes</td>
+</tr>
+
+    
 <td>136</td>
 <td>Delaney Yeltsin Cloete</td>
 <td>Eden</td>
@@ -521,6 +532,17 @@ draft: false
 <td style="background-color: lightgreen">Yes</td>
 <td style="background-color: lightgreen">Yes</td>
 <td>No</td>
+</tr>
+
+    
+<td>278</td>
+<td>Hanè Dunn</td>
+<td>Swellendam</td>
+<td>410W</td>
+<td>No</td>
+<td style="background-color: lightgreen">Yes</td>
+<td>No</td>
+<td style="background-color: lightgreen">Yes</td>
 </tr>
 
     
@@ -793,6 +815,17 @@ draft: false
 <td>Durbanville</td>
 <td>410W</td>
 <td>No</td>
+<td style="background-color: lightgreen">Yes</td>
+<td style="background-color: lightgreen">Yes</td>
+<td style="background-color: lightgreen">Yes</td>
+</tr>
+
+    
+<td>281</td>
+<td>David Griffith</td>
+<td>The Wilds</td>
+<td>410E</td>
+<td style="background-color: lightgreen">Yes</td>
 <td style="background-color: lightgreen">Yes</td>
 <td style="background-color: lightgreen">Yes</td>
 <td style="background-color: lightgreen">Yes</td>
@@ -1206,6 +1239,17 @@ draft: false
 </tr>
 
     
+<td>282</td>
+<td>Pieter Kruger</td>
+<td>Wilro Park</td>
+<td>410E</td>
+<td>No</td>
+<td style="background-color: lightgreen">Yes</td>
+<td>No</td>
+<td style="background-color: lightgreen">Yes</td>
+</tr>
+
+    
 <td>272</td>
 <td>Bettina Kröning</td>
 <td>Windhoek</td>
@@ -1224,6 +1268,17 @@ draft: false
 <td>No</td>
 <td style="background-color: lightgreen">Yes</td>
 <td style="background-color: lightgreen">Yes</td>
+<td>No</td>
+</tr>
+
+    
+<td>286</td>
+<td>Susan Labuschagne</td>
+<td>Wilro Park</td>
+<td>410E</td>
+<td>No</td>
+<td style="background-color: lightgreen">Yes</td>
+<td>No</td>
 <td>No</td>
 </tr>
 
@@ -1653,6 +1708,17 @@ draft: false
 <td style="background-color: lightgreen">Yes</td>
 <td style="background-color: lightgreen">Yes</td>
 <td style="background-color: lightgreen">Yes</td>
+<td>No</td>
+</tr>
+
+    
+<td>287</td>
+<td>Peter Mutschler</td>
+<td>Grootfontein</td>
+<td>410W</td>
+<td style="background-color: lightgreen">Yes</td>
+<td style="background-color: lightgreen">Yes</td>
+<td>No</td>
 <td>No</td>
 </tr>
 
@@ -2768,10 +2834,32 @@ draft: false
 </tr>
 
     
+<td>285</td>
+<td>Gerry Young</td>
+<td>Mitchells Plain</td>
+<td>410W</td>
+<td>No</td>
+<td style="background-color: lightgreen">Yes</td>
+<td>No</td>
+<td style="background-color: lightgreen">Yes</td>
+</tr>
+
+    
 <td>228</td>
 <td>Leonie Zucker</td>
 <td>Milnerton</td>
 <td>410W</td>
+<td style="background-color: lightgreen">Yes</td>
+<td style="background-color: lightgreen">Yes</td>
+<td>No</td>
+<td>No</td>
+</tr>
+
+    
+<td>280</td>
+<td>Leonie Zucker</td>
+<td>Milnerton</td>
+<td>410E</td>
 <td style="background-color: lightgreen">Yes</td>
 <td style="background-color: lightgreen">Yes</td>
 <td>No</td>
